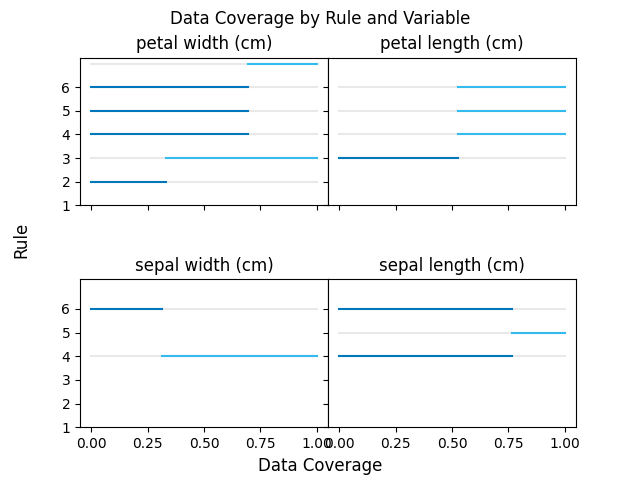
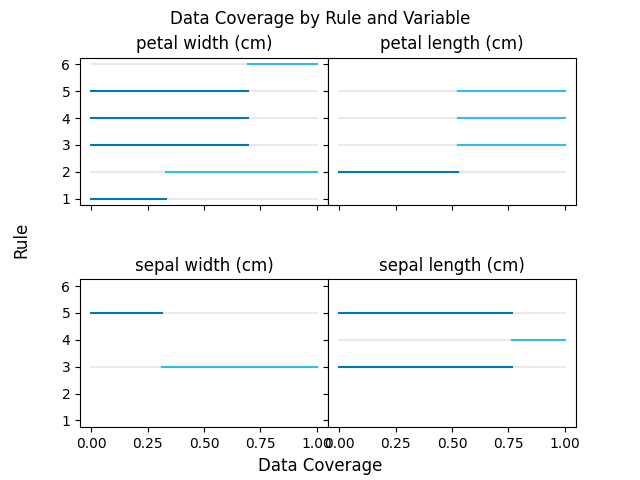
supporting filtering for a set of columns

diff --git a/cubist/_cubist_display_mixin.py b/cubist/_cubist_display_mixin.py
@@ -3,6 +3,7 @@
 import math
 
 import pandas as pd
+import numpy as np
 
 from sklearn.utils._optional_dependencies import check_matplotlib_support
 
@@ -45,7 +46,11 @@ class _CubistDisplayMixin:  # pylint: disable=R0903
 
             # ax is a numpy array and so we reshape it to one dimension for
             # simpler processing
-            ax = ax.reshape(-1)
+            if isinstance(ax, np.ndarray):
+                ax = ax.reshape(-1)
+            # if there is only one plot created, place it in a numpy array
+            else:
+                ax = np.array([ax])
         # if ax is provided, get the current figure
         else:
             fig = plt.gcf()
@@ -53,7 +58,12 @@ class _CubistDisplayMixin:  # pylint: disable=R0903
 
     @classmethod
     def _validate_from_estimator_params(
-        cls, *, df: pd.DataFrame = None, committee: int = None, rule: int = None
+        cls,
+        *,
+        df: pd.DataFrame = None,
+        committee: int = None,
+        rule: int = None,
+        feature_names: list = None,
     ):
         check_matplotlib_support(f"{cls.__name__}.from_estimator")
 
@@ -65,7 +75,7 @@ class _CubistDisplayMixin:  # pylint: disable=R0903
             # verify committee parameter is integer
             if not isinstance(committee, int):
                 raise TypeError(
-                    f"`committee` must be an integer but got {type(committee)}"
+                    f"`committee` must be an integer but got {type(committee)}."
                 )
             # filter for committees below requested committee number
             df = df.loc[df.committee <= committee]
@@ -74,17 +84,27 @@ class _CubistDisplayMixin:  # pylint: disable=R0903
         if rule is not None:
             # verify rule parameter is integer
             if not isinstance(rule, int):
-                raise TypeError(f"`rule` must be an integer but got {type(rule)}")
+                raise TypeError(f"`rule` must be an integer but got {type(rule)}.")
             # filter for rules below requested rule number
             df = df.loc[df.rule <= rule]
+
+        # if feature_names parameter is passed
+        if feature_names is not None:
+            # verify feature_names is a list
+            if not isinstance(feature_names, list):
+                raise TypeError(f"`feature_names` must be a list but got {type(rule)}.")
+            # filter for rows where the attribute/variable name is found in
+            # the list
+            df = df.loc[df.variable.isin(feature_names)]
+            if df.empty:
+                raise ValueError(
+                    f"No rows are available given `feature_names`: {feature_names}."
+                )
 
         if df.committee.max() == 1:
             # if there is only one committee, this is a rule-only model
             y_axis_label = "Rule"
             df["label"] = df.rule
-            # get the distinct ordered labels
-            y_label_map = df.label.drop_duplicates().reset_index(drop=True).to_dict()
-            y_labels = list(y_label_map.values())
         else:
             # otherwise report by committee and rule
             y_axis_label = "Committee/Rule"
@@ -93,11 +113,11 @@ class _CubistDisplayMixin:  # pylint: disable=R0903
                 lambda x: f"{x.committee}/{x.rule}",
                 axis=1,
             )
-            # get the distinct ordered labels
-            y_label_map = df.label.drop_duplicates().reset_index(drop=True).to_dict()
-            y_labels = list(y_label_map.values())
-            # replace the dataframe label column values with the index of the
-            # same value in y_labels
-            df.label = df.label.apply(y_labels.index)
-
+        # get the distinct ordered labels
+        y_label_map = df.label.drop_duplicates().reset_index(drop=True).to_dict()
+        # get the labels as a list
+        y_labels = list(y_label_map.values())
+        # replace the dataframe label column values with the index of the
+        # same value in y_labels
+        df.label = df.label.apply(y_labels.index)
         return df, y_axis_label, y_label_map

diff --git a/cubist/_attribute_usage.py b/cubist/_attribute_usage.py
@@ -49,19 +49,18 @@ def _attribute_usage(output: str, feature_names: list | set):
     if output.shape[0] < len(feature_names):
         # get the list of missing features
         missing_vars = list(set(feature_names) - set(output.Variable))
-        if missing_vars:
-            # create a list of zeros equal to the length of missing_vars
-            zero_list = [0.0] * len(missing_vars)
-            # create a dataframe of zeros for the Conditions and Model columns for
-            # each missing variable and append to values
-            missing_vars_df = pd.DataFrame(
-                {
-                    "Conditions": zero_list,
-                    "Model": zero_list,
-                    "Variable": missing_vars,
-                }
-            )
-            output = pd.concat([output, missing_vars_df], axis=0)
+        # create a list of zeros equal to the length of missing_vars
+        zero_list = [0.0] * len(missing_vars)
+        # create a dataframe of zeros for the Conditions and Model columns for
+        # each missing variable and append to values
+        missing_vars_df = pd.DataFrame(
+            {
+                "Conditions": zero_list,
+                "Model": zero_list,
+                "Variable": missing_vars,
+            }
+        )
+        output = pd.concat([output, missing_vars_df], axis=0)
     return output
 
 
@@ -70,7 +69,7 @@ def _parse_attribute(x) -> list[float, float, str]:
     list of [Condition, Model, Variable]"""
     # get the variable name as the string following the last occurrence of four
     # whitespace characters
-    attribute_start_i = x.rindex("    ")
+    attribute_start_i = x.rindex("    ") + 4
     attribute_name = x[attribute_start_i:]
     return _get_values(x[:attribute_start_i]) + [attribute_name]
 

diff --git a/cubist/cubist_coefficient_display.py b/cubist/cubist_coefficient_display.py
@@ -146,6 +146,7 @@ class CubistCoefficientDisplay(_CubistDisplayMixin):
         *,
         committee: int = None,
         rule: int = None,
+        feature_names: list = None,
         ax=None,
         scatter_kwargs=None,
         gridspec_kwargs=None,
@@ -164,6 +165,10 @@ class CubistCoefficientDisplay(_CubistDisplayMixin):
 
         rule : int
             Max rule number to be included in plot.
+
+        feature_names : list of str
+            Feature names to filter to in the plot. Leaving unset plots all
+            features.
 
         ax : matplotlib axes, default=None
             Axes object to plot on. If `None`, a new figure and axes is
@@ -205,7 +210,7 @@ class CubistCoefficientDisplay(_CubistDisplayMixin):
         df = df.loc[df.notna().all(axis="columns")]
 
         df, y_axis_label, y_label_map = cls._validate_from_estimator_params(
-            df=df, committee=committee, rule=rule
+            df=df, committee=committee, rule=rule, feature_names=feature_names
         )
 
         viz = cls(coeffs=df)

diff --git a/cubist/cubist_coverage_display.py b/cubist/cubist_coverage_display.py
@@ -161,6 +161,7 @@ class CubistCoverageDisplay(_CubistDisplayMixin):
         *,
         committee: int = None,
         rule: int = None,
+        feature_names: list = None,
         ax=None,
         line_kwargs=None,
         gridspec_kwargs=None,
@@ -183,6 +184,10 @@ class CubistCoverageDisplay(_CubistDisplayMixin):
 
         rule : int
             Max rule number to be included in plot.
+
+        feature_names : list of str
+            Feature names to filter to in the plot. Leaving unset plots all
+            features.
 
         ax : matplotlib axes, default=None
             Axes object to plot on. If `None`, a new figure and axes is
@@ -307,7 +312,7 @@ class CubistCoverageDisplay(_CubistDisplayMixin):
         )
 
         df, y_axis_label, y_label_map = cls._validate_from_estimator_params(
-            df=df, committee=committee, rule=rule
+            df=df, committee=committee, rule=rule, feature_names=feature_names
         )
 
         viz = cls(splits=df)

diff --git a/cubist/tests/test_coverage_display.py b/cubist/tests/test_coverage_display.py
@@ -1,16 +1,29 @@
 """Tests for cubist.cubist_coverage_display.CubistCoverageDisplay"""
 
-import matplotlib.pyplot as plt
 import pytest
+
+import matplotlib.pyplot as plt
 
 from cubist import Cubist, CubistCoverageDisplay
 
 
 def test_coverage_display(ames_housing):
     """Test creating the plot"""
-    model = Cubist().fit(*ames_housing)
-    CubistCoverageDisplay.from_estimator(model, ames_housing[0])
+    model = Cubist(n_committees=2).fit(*ames_housing)
+    CubistCoverageDisplay.from_estimator(
+        model, ames_housing[0], feature_names=["Gr_Liv_Area"]
+    )
     plt.savefig("coverage_display_test.png")
+
+
+def test_coverage_display_for_r_parity(boston):
+    """Test creating plot from the R library"""
+    X, y = boston
+    model = Cubist(n_rules=100, extrapolation=1.0)
+    model.fit(X, y)
+
+    CubistCoverageDisplay.from_estimator(model, X)
+    plt.savefig("coverage_display_test_r_parity.png")
 
 
 def test_iris_coverage_display(iris):

diff --git a/cubist/tests/conftest.py b/cubist/tests/conftest.py
@@ -6,6 +6,7 @@ from contextlib import contextmanager
 import pytest
 
 from sklearn.datasets import fetch_openml, load_iris, fetch_california_housing
+import pandas as pd
 
 
 @contextmanager
@@ -32,3 +33,14 @@ def california_housing():
 def iris():
     """Fixture for ames housing dataset"""
     return load_iris(return_X_y=True, as_frame=True)  # pylint: disable=W0621
+
+
+@pytest.fixture
+def boston():
+    """Fixture for the Boston housing dataset"""
+    X = pd.read_csv(
+        "https://raw.githubusercontent.com/selva86/datasets/refs/heads/master/BostonHousing.csv"
+    )
+    y = X.medv
+    X = X.drop(columns=["medv"])
+    return X, y

diff --git a/cubist/tests/test_coefficient_display.py b/cubist/tests/test_coefficient_display.py
@@ -12,6 +12,14 @@ def test_coefficient_display(ames_housing):
     plt.savefig("coefficient_display_test.png")
 
 
+def test_coefficient_display_for_r_parity(boston):
+    """Test creating plot from the R library"""
+    model = Cubist(n_rules=100, extrapolation=1.0)
+    model.fit(*boston)
+    CubistCoefficientDisplay.from_estimator(model)
+    plt.savefig("coefficient_display_test_r_parity.png")
+
+
 def test_coefficient_iris_display(iris):
     """Test creating the readme iris coefficient plot"""
     model = Cubist().fit(*iris)

diff --git a/cubist/tests/test_attribute_usage.py b/cubist/tests/test_attribute_usage.py
@@ -1,6 +1,7 @@
 """Test cubist._attribute_usage._attribute_usage functions"""
 
 import pytest
+
 from sklearn.datasets import load_iris
 
 from cubist import Cubist
@@ -19,4 +20,5 @@ def test_attribute_usage():
     in Cubist's report"""
     X, y = load_iris(return_X_y=True, as_frame=True)
     model = Cubist().fit(X, y)
-    _attribute_usage(model.output_, list(X.columns) + ["A"])
+    df = _attribute_usage(model.output_, list(X.columns) + ["A"])
+    assert df.shape[0] == len(X.columns) + 1

diff --git a/cubist/tests/test_cubist_display_mixin.py b/cubist/tests/test_cubist_display_mixin.py
@@ -1,7 +1,8 @@
 """Tests for cubist._cubist_display_mixin._CubistDisplayMixin"""
 
-import matplotlib.pyplot as plt
 import pytest
+
+import matplotlib.pyplot as plt
 
 from .._cubist_display_mixin import _CubistDisplayMixin
 from ..cubist import Cubist

diff --git a/cubist/tests/test_quinlan_attributes.py b/cubist/tests/test_quinlan_attributes.py
@@ -2,9 +2,10 @@
 
 import random
 
+import pytest
+
 import pandas as pd
 import numpy as np
-import pytest
 
 from .._quinlan_attributes import (
     _quinlan_attributes,

diff --git a/cubist/tests/test_cubist.py b/cubist/tests/test_cubist.py
@@ -3,6 +3,7 @@
 import random
 
 import pytest
+
 from sklearn.utils.validation import check_is_fitted
 
 from .conftest import no_raise

diff --git a/cubist/tests/test_datasets.py b/cubist/tests/test_datasets.py
@@ -3,6 +3,7 @@
 import random
 
 import pytest
+
 import pandas as pd
 import numpy as np
 from sklearn.datasets import load_diabetes
